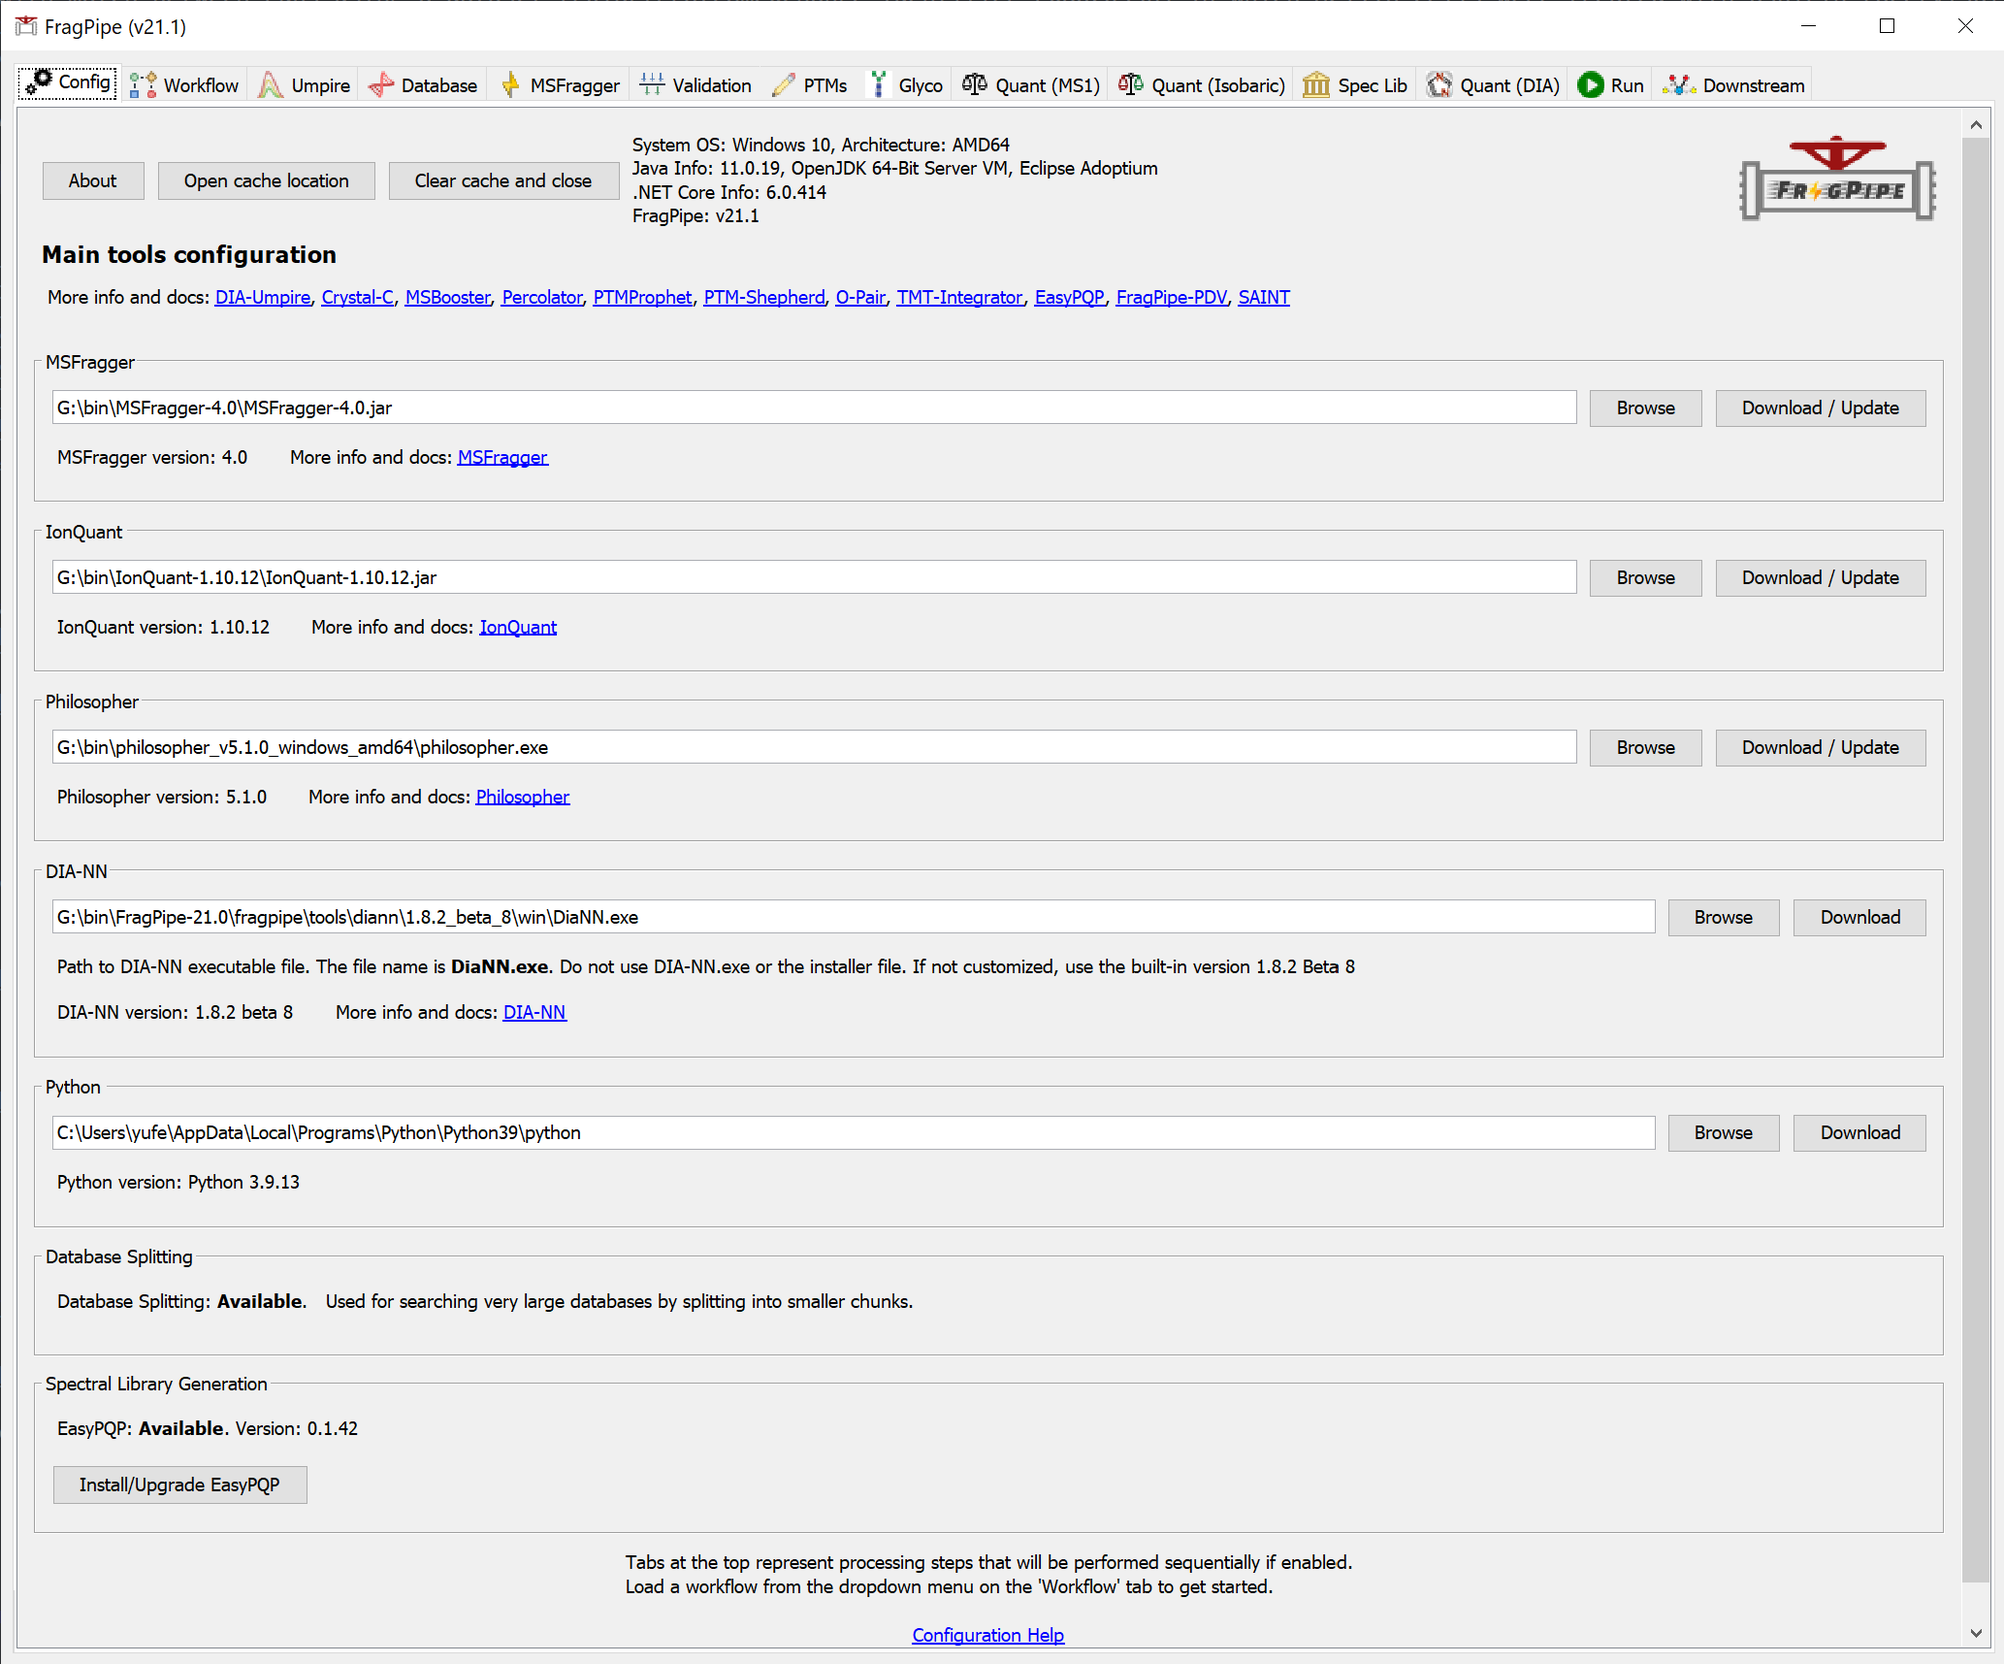
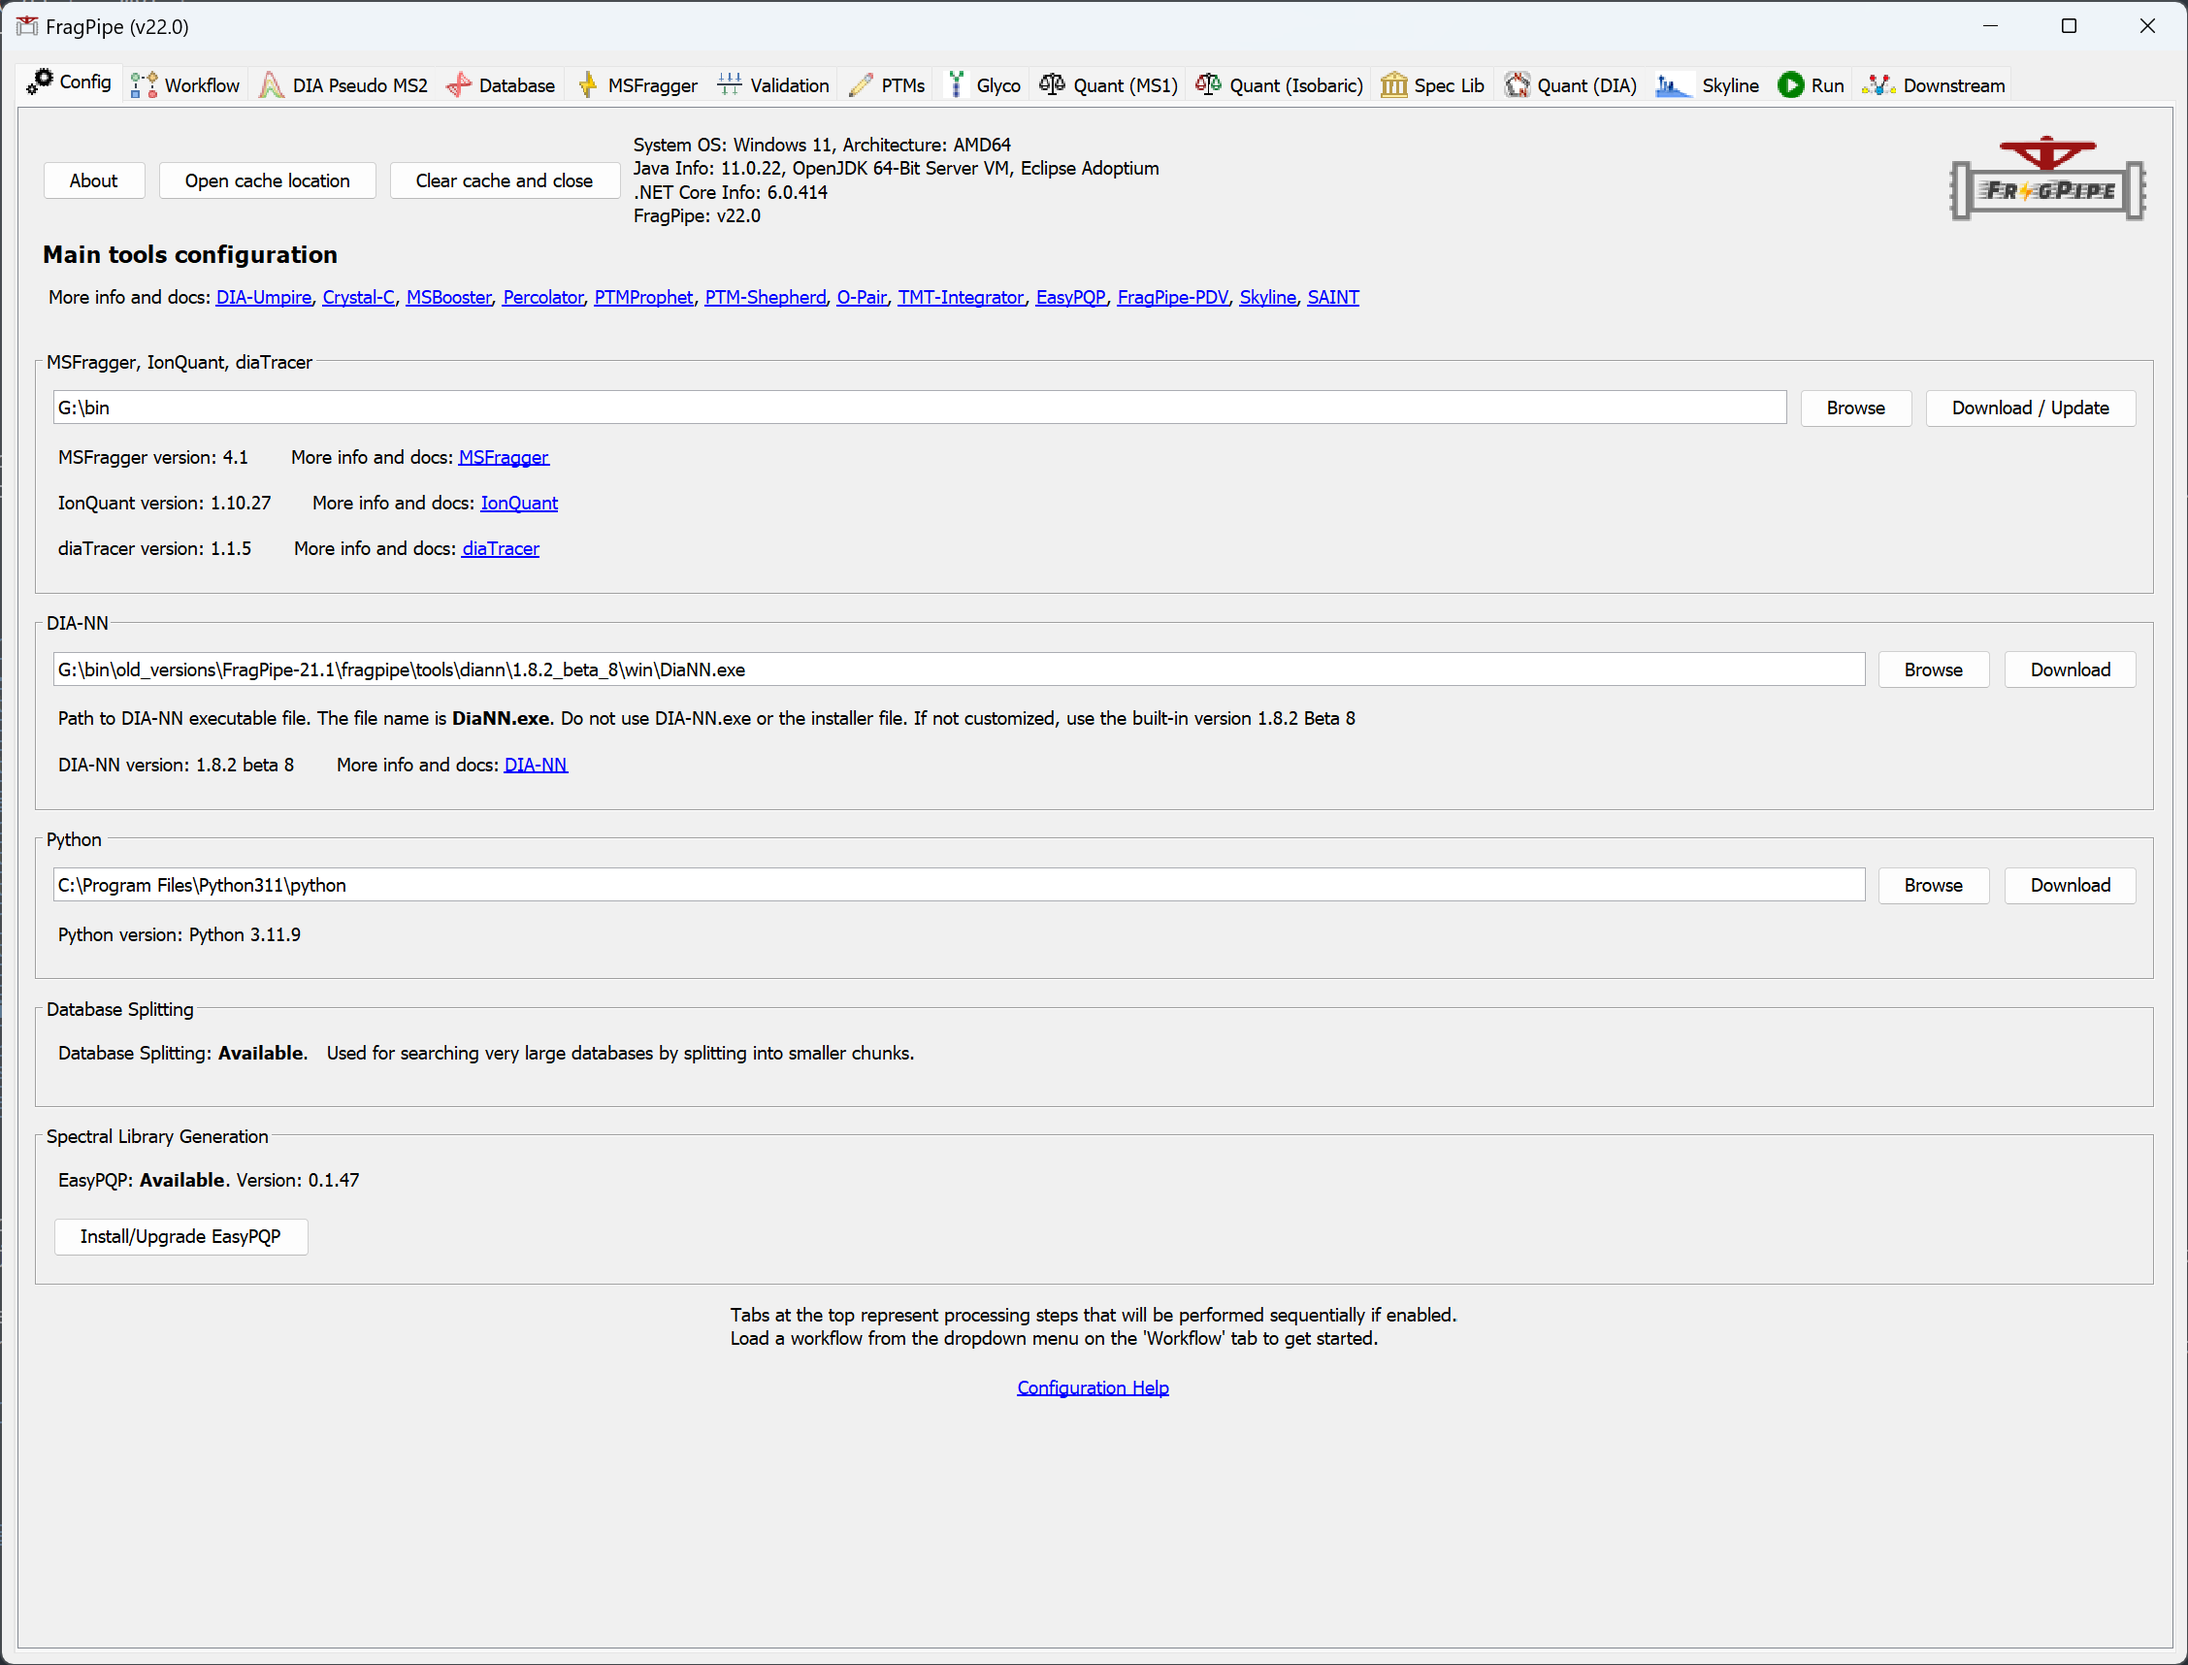
Update FragPipe tutorial.

diff --git a/docs/tutorial_fragpipe.md b/docs/tutorial_fragpipe.md
@@ -2,12 +2,20 @@
 
 ##### FragPipe can be downloaded [here](https://github.com/Nesvilab/FragPipe/releases). Follow the instructions on that same Releases page to launch the program.
 
-Complete workflows are available for a variety of experiment types, we recommend starting your analysis with a built-in workflow, which can then be customized and saved for future use. For partial processing (e.g. to save time upon re-analysis), steps can be skipped by unchecking the corresponding boxes. This tutorial walks through each tab in some detail, but once FragPipe is configured, analysis can be as simple as choosing spectral files, a database, and a workflow to run. Find a guide to output files [here](https://fragpipe.nesvilab.org/docs/tutorial_fragpipe_outputs.html).
+Complete workflows are available for a variety of experiment types, we recommend starting your analysis with a built-in workflow, which can then be customized and saved for future use. 
 
-Before you get started, make sure your LC-MS file format is compatible with the workflows you want to perform. For Thermo data (with or without FAIMS), we recommend [converting .raw files to mzML with peak picking](https://fragpipe.nesvilab.org/docs/tutorial_convert.html). DIA data acquired with overlapping/staggered windows must be [converted to mzML with demultiplexing](https://fragpipe.nesvilab.org/docs/tutorial_convert.html#convert-thermo-dia-raw-files-with-overlappingstaggered-windows). Bruker .d indicates ddaPASEF files from timsTOF (diaPASEF can only be quantified with DIA-NN, this format is not currently supported in MSFragger or other parts of FragPipe), other Bruker .d files should be converted to .mzML. Please also note that timsTOF data requires [Visual C++ Redistributable for Visual Studio 2017](https://aka.ms/vs/16/release/VC_redist.x64.exe) in Windows. If you see an error saying cannot find Bruker native library, please try to install the Visual C++ redistibutable.
+For partial processing (e.g. to save time upon re-analysis), steps can be skipped by unchecking the corresponding boxes. This tutorial walks through each tab in some detail, but once FragPipe is [configured](https://fragpipe.nesvilab.org/docs/tutorial_setup_fragpipe.html), analysis can be as simple as choosing spectral files, a database, and a workflow to run. Find a guide to output files [here](https://fragpipe.nesvilab.org/docs/tutorial_fragpipe_outputs.html).
+
+Before you get started, make sure your LC-MS file format is compatible with the workflows you want to perform. For Thermo data (with or without FAIMS), we recommend [converting .raw files to mzML with peak picking](https://fragpipe.nesvilab.org/docs/tutorial_convert.html). DIA data acquired with overlapping/staggered windows must be [converted to mzML with demultiplexing](https://fragpipe.nesvilab.org/docs/tutorial_convert.html#convert-thermo-dia-raw-files-with-overlappingstaggered-windows).
+
+Linux users: please note that [Mono](https://www.mono-project.com/download/stable/#download-lin) must be installed to directly read Thermo .raw files.
+
+Bruker .d indicates ddaPASEF or diaPASEF files from timsTOF, other Bruker .d files should be [converted to .mzML](https://fragpipe.nesvilab.org/docs/tutorial_convert.html). Please also note that timsTOF data requires [Visual C++ Redistributable for Visual Studio 2017](https://aka.ms/vs/16/release/VC_redist.x64.exe) in Windows. If you see an error saying cannot find Bruker native library, please try to install the Visual C++ redistibutable.
 
 | Workflow Step                    | .mzML | Thermo (.raw) | Bruker (.d) |  .mgf |
 |----------------------------------|:-----:|:-------------:|:-----------:|:-----:|
+| DIA-Umpire signal extraction     | ✔     | ✔             |             |       | 
+| diaTracer signal extraction     |        |                 |  ✔           |       | 
 | MSFragger search                 | ✔     | ✔             | ✔           | ✔     | 
 | MSFragger-DIA                    | ✔     | ✔             |             |       | 
 | Label-free quantification        | ✔     | ✔             | ✔           |       | 
@@ -16,14 +24,11 @@ Before you get started, make sure your LC-MS file format is compatible with the 
 | Crystal-C artifact removal       | ✔     | ✔             |             |       | 
 | PTMProphet localization          | ✔     | ✔             | ✔           |       | 
 | PTM-Shepherd summarization       | ✔     | ✔             | ✔           |       | 
-| DIA-Umpire signal extraction     | ✔     | ✔             |             |       | 
 | Spectral library generation      | ✔     | ✔             | ✔           | ✔     | 
 | DIA-NN quantification            | ✔     | ✔*            | ✔           |       | 
 
 FragPipe runs on Windows and Linux operating systems. While very simple analyses may only require 8 GB RAM, large-scale/complex analyses or timsTOF data will likely need 24 GB memory or more. Free disk space is needed to run FragPipe analyses and save reports, typically +20-50% of spectral file size for non-ion mobility data. Disk space requirements for quantification of timsTOF data are greater, +60% spectral file size if .d files are uncompressed, but up to +250% if Bruker's compression function has been used.
 
-Linux users: please note that [Mono](https://www.mono-project.com/download/stable/#download-lin) must be installed to directly read Thermo .raw files.
-<br>
 
 #### Tutorial contents
 * [Configure FragPipe](https://fragpipe.nesvilab.org/docs/tutorial_fragpipe.html#configure-fragpipe)
@@ -46,12 +51,11 @@ Linux users: please note that [Mono](https://www.mono-project.com/download/stabl
 
 ### Configure FragPipe
 When FragPipe launches, the first tab in the window ('Config') will be used to configure the program.
-1. Connect FragPipe to a MSFragger.jar program file. If you already have the latest MSFragger version, use the 'Browse' button to select it or 'Download/Update' to fetch the latest version. If this is your first time downloading MSFragger, you will need to provide some basic information and agree to license terms. 
-2. Connect FragPipe to a IonQuant.jar program file. If you already have the latest IonQuant version, use the 'Browse' button to select it or 'Download/Update' to fetch the latest version. If this is your first time downloading IonQuant, you will need to provide some basic information and agree to license terms. 
-3. Connect FragPipe to a Philosopher program file. If you already have the latest Philosopher release, use 'Browse', otherwise use 'Download/Update'.
-4. Optional: Python is needed to perform database splitting (necessary in complex searches/low memory situations) and spectral library generation. If you already have Python 3.8 or 3.9 plus a few additional packages installed use 'Browse' to locate your python.exe file. 'Download' will take you to install Python. See [Python installation help](https://fragpipe.nesvilab.org/docs/tutorial_setup_fragpipe.html#optional-install-update-or-use-an-already-installed-version-of-python) for details.
+1. Connect FragPipe to a MSFragger.jar, IonQuant.jar, and diaTracer.jar program files. If you already have the latest versions and they are in the same folder, use the 'Browse' button to select the folder. Use 'Download/Update' to fetch the latest versions if you don't have them.
+2. Optional: download and install the latest DIA-NN if you want. After installation, specify the path to `DiaNN.txt` in FragPipe. FragPipe bundles DIA-NN that should be good for most analysis.
+3. Optional: Python is needed to perform database splitting (necessary in complex searches/low memory situations) and spectral library generation. If you already have Python 3.8 - 3.11 plus a few additional packages installed use 'Browse' to locate your python.exe file. 'Download' will take you to install Python. See [Python installation help](https://fragpipe.nesvilab.org/docs/tutorial_setup_fragpipe.html#optional-install-update-or-use-an-already-installed-version-of-python) for details.
 
-__Note: FragPipe requires Python 3.8 or 3.9__.
+__Note: FragPipe requires Python 3.8 - 3.11__.
 
 ![](https://raw.githubusercontent.com/Nesvilab/FragPipe/gh-pages/images/share-config.png)
  
@@ -74,7 +78,7 @@ In the 'Workflow' tab:
 
 **Notes about timsTOF data:** We recommend using raw ddaPASEF files (.d files), where the .d folder is the raw file. If you have already run MSFragger on the .d files, having the .mzBIN files from that analysis in the same directory as the .d files will speed up the analysis. If you don't need to perform quantification, you can use .mgf files (which can be generated by Bruker's instrument software immediately after data acquisition is completed) instead of .d.
  
-Once you've loaded your spectral files, set the data type (DDA, DIA, GPF-DIA, DIA-Quant, or DIA-Lib; hover over 'Data type' in FragPipe to view the tooltip with more information) and annotate your data to specify Experiment and Bioreplicates, which determines how your PSM/peptide/protein etc. reports will be generated (the 'Save as manifest' button stores file locations and annotations for future use):
+Once you've loaded your spectral files, set the data type (DDA, DDA+, DIA, DIA-Quant, or DIA-Lib; hover over 'Data type' in FragPipe to view the tooltip with more information) and annotate your data to specify Experiment and Bioreplicates, which determines how your PSM/peptide/protein etc. reports will be generated (the 'Save as manifest' button stores file locations and annotations for future use):
 
 #### Single-experiment report 
 Leave the 'Experiment' and 'Bioreplicate' fields blank. Use this option if you want to analyze all input files together and generate a single merged report (e.g.,  building a combined spectral library from all input data). 
@@ -131,7 +135,6 @@ Bait IPs: Use `[GENE]_[condition]` format to describe the experiments, where `[G
 
 **Note:** All negative controls should be labeled the same, as `Control`, even if you have negative controls generated under different conditions or in different cell lines.  
 
-<br>
 
 #### TMT/iTRAQ data
 For TMT/iTRAQ analysis, spectral files should be in mzML format (with peak picking, see the [conversion tutorial](https://fragpipe.nesvilab.org/docs/tutorial_convert.html)). Raw files are not currently supported.
@@ -146,12 +149,20 @@ TMT/iTRAQ experiments typically consist of one or more "plexes" (multiplexed sam
 | run_name_tmt2_2.mzML | TMT2       |              |
 
  <br>
- <br>
- 
+
+
 ### Run DIA-Umpire SE
-[DIA-Umpire](https://diaumpire.nesvilab.org/)'s signal extraction module can be used for .raw and .mzML files. See this [tutorial](https://fragpipe.nesvilab.org/docs/tutorial_DIA.html) for more detail.
+[DIA-Umpire](https://diaumpire.nesvilab.org/)'s signal extraction module can be used for .raw and .mzML files without ion mobility. See this [tutorial](https://fragpipe.nesvilab.org/docs/tutorial_DIA.html) for more detail.
   
 ![](https://raw.githubusercontent.com/Nesvilab/FragPipe/gh-pages/images/share-diaumpire.png)
+
+<br>
+
+
+### Run diaTracer
+[diaTracer](https://diatracer.nesvilab.org/)'s signal extraction module can be used for diaPASEF .d files.
+  
+![](https://raw.githubusercontent.com/Nesvilab/FragPipe/gh-pages/images/share-diatracer.png)
 
 
  <br>
